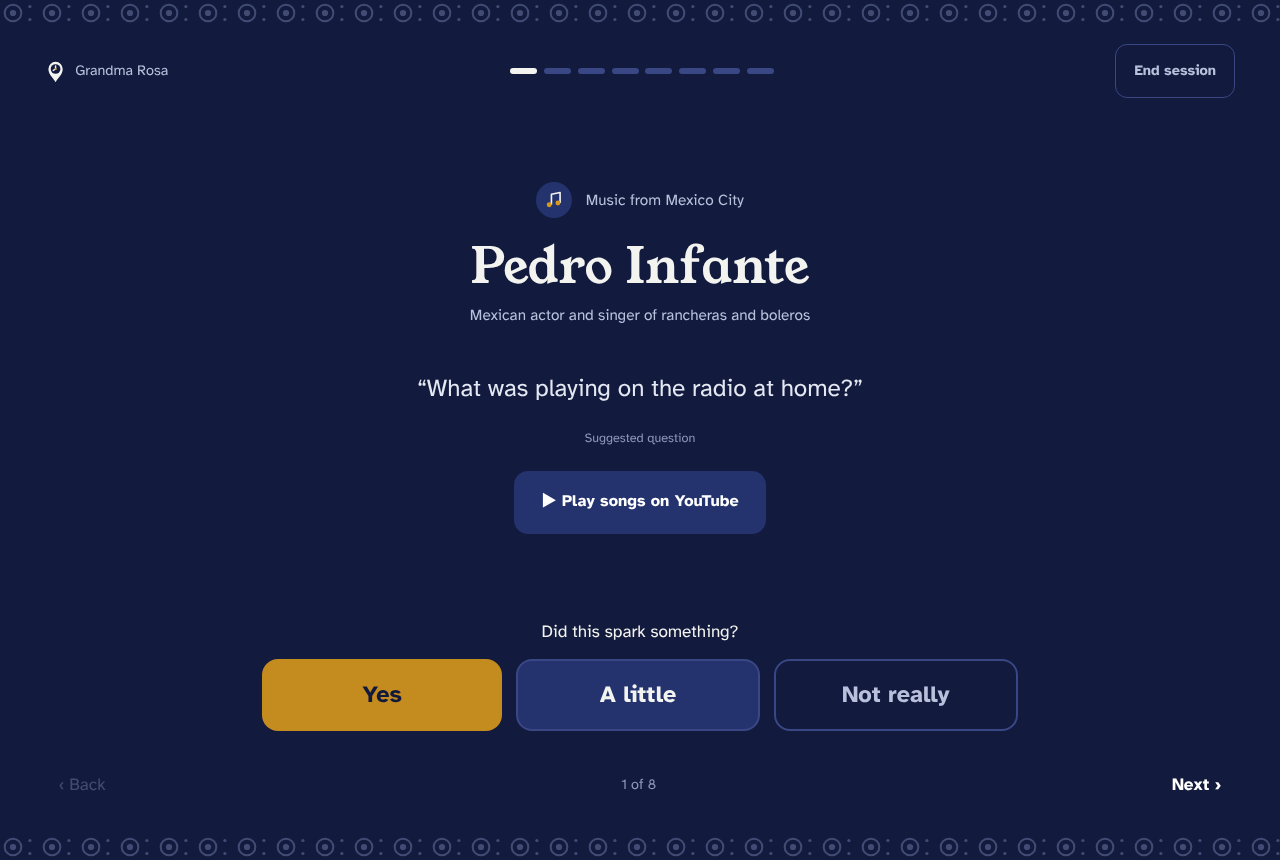
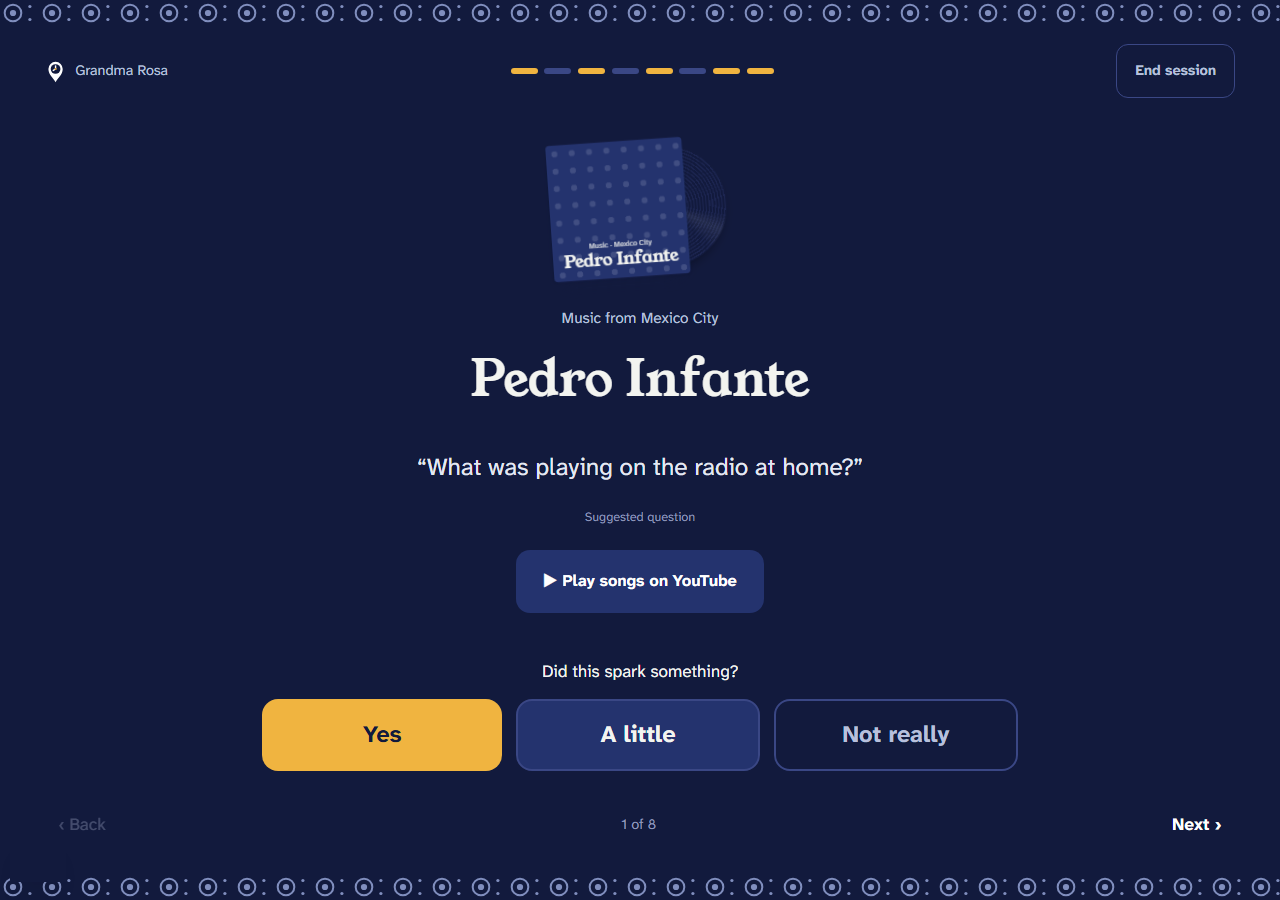
docs: fresh screenshots from the running app against live Qloo
Landing (desktop and phone), a real build in progress, plan, stage (desktop and phone), review, onboarding and privacy. The old images showed the previous design in demo mode. The full run reported no browser console errors or exceptions on any screen. Example people only; no real names or credentials.

diff --git a/README.md b/README.md
@@ -152,12 +152,17 @@ Cumulative layout shift on the landing is 0.006. Performance scores measured on 
 
 ## Screens
 
+Captured from the running app against live Qloo (the example people; no real names).
+
 | | |
 |---|---|
-| ![Home](docs/screens/home.png) | ![Session plan](docs/screens/plan.png) |
-| ![Stage](docs/screens/stage.png) | ![Review](docs/screens/review.png) |
+| ![Landing page](docs/screens/landing-desktop.png) | ![Building a session, live steps](docs/screens/build.png) |
+| ![Session plan](docs/screens/plan.png) | ![Stage: one item at a time](docs/screens/stage.png) |
+| ![Review](docs/screens/review.png) | ![Profile builder](docs/screens/onboarding.png) |
 
-Home · Profile builder · Building (live steps over SSE) · Session plan · Stage (full-screen, wake lock, 72px buttons) · Review · Print card (A4) · About and privacy.
+On a phone: [landing](docs/screens/landing-phone.png), [plan](docs/screens/plan-phone.png) and [stage](docs/screens/stage-phone.png). Also: [privacy page](docs/screens/privacy.png).
+
+Landing · Profile builder · Building (live steps over SSE) · Session plan · Stage (full-screen, wake lock, 72px buttons) · Review · Print card (A4) · About and privacy.
 
 ## Known limitations
 
